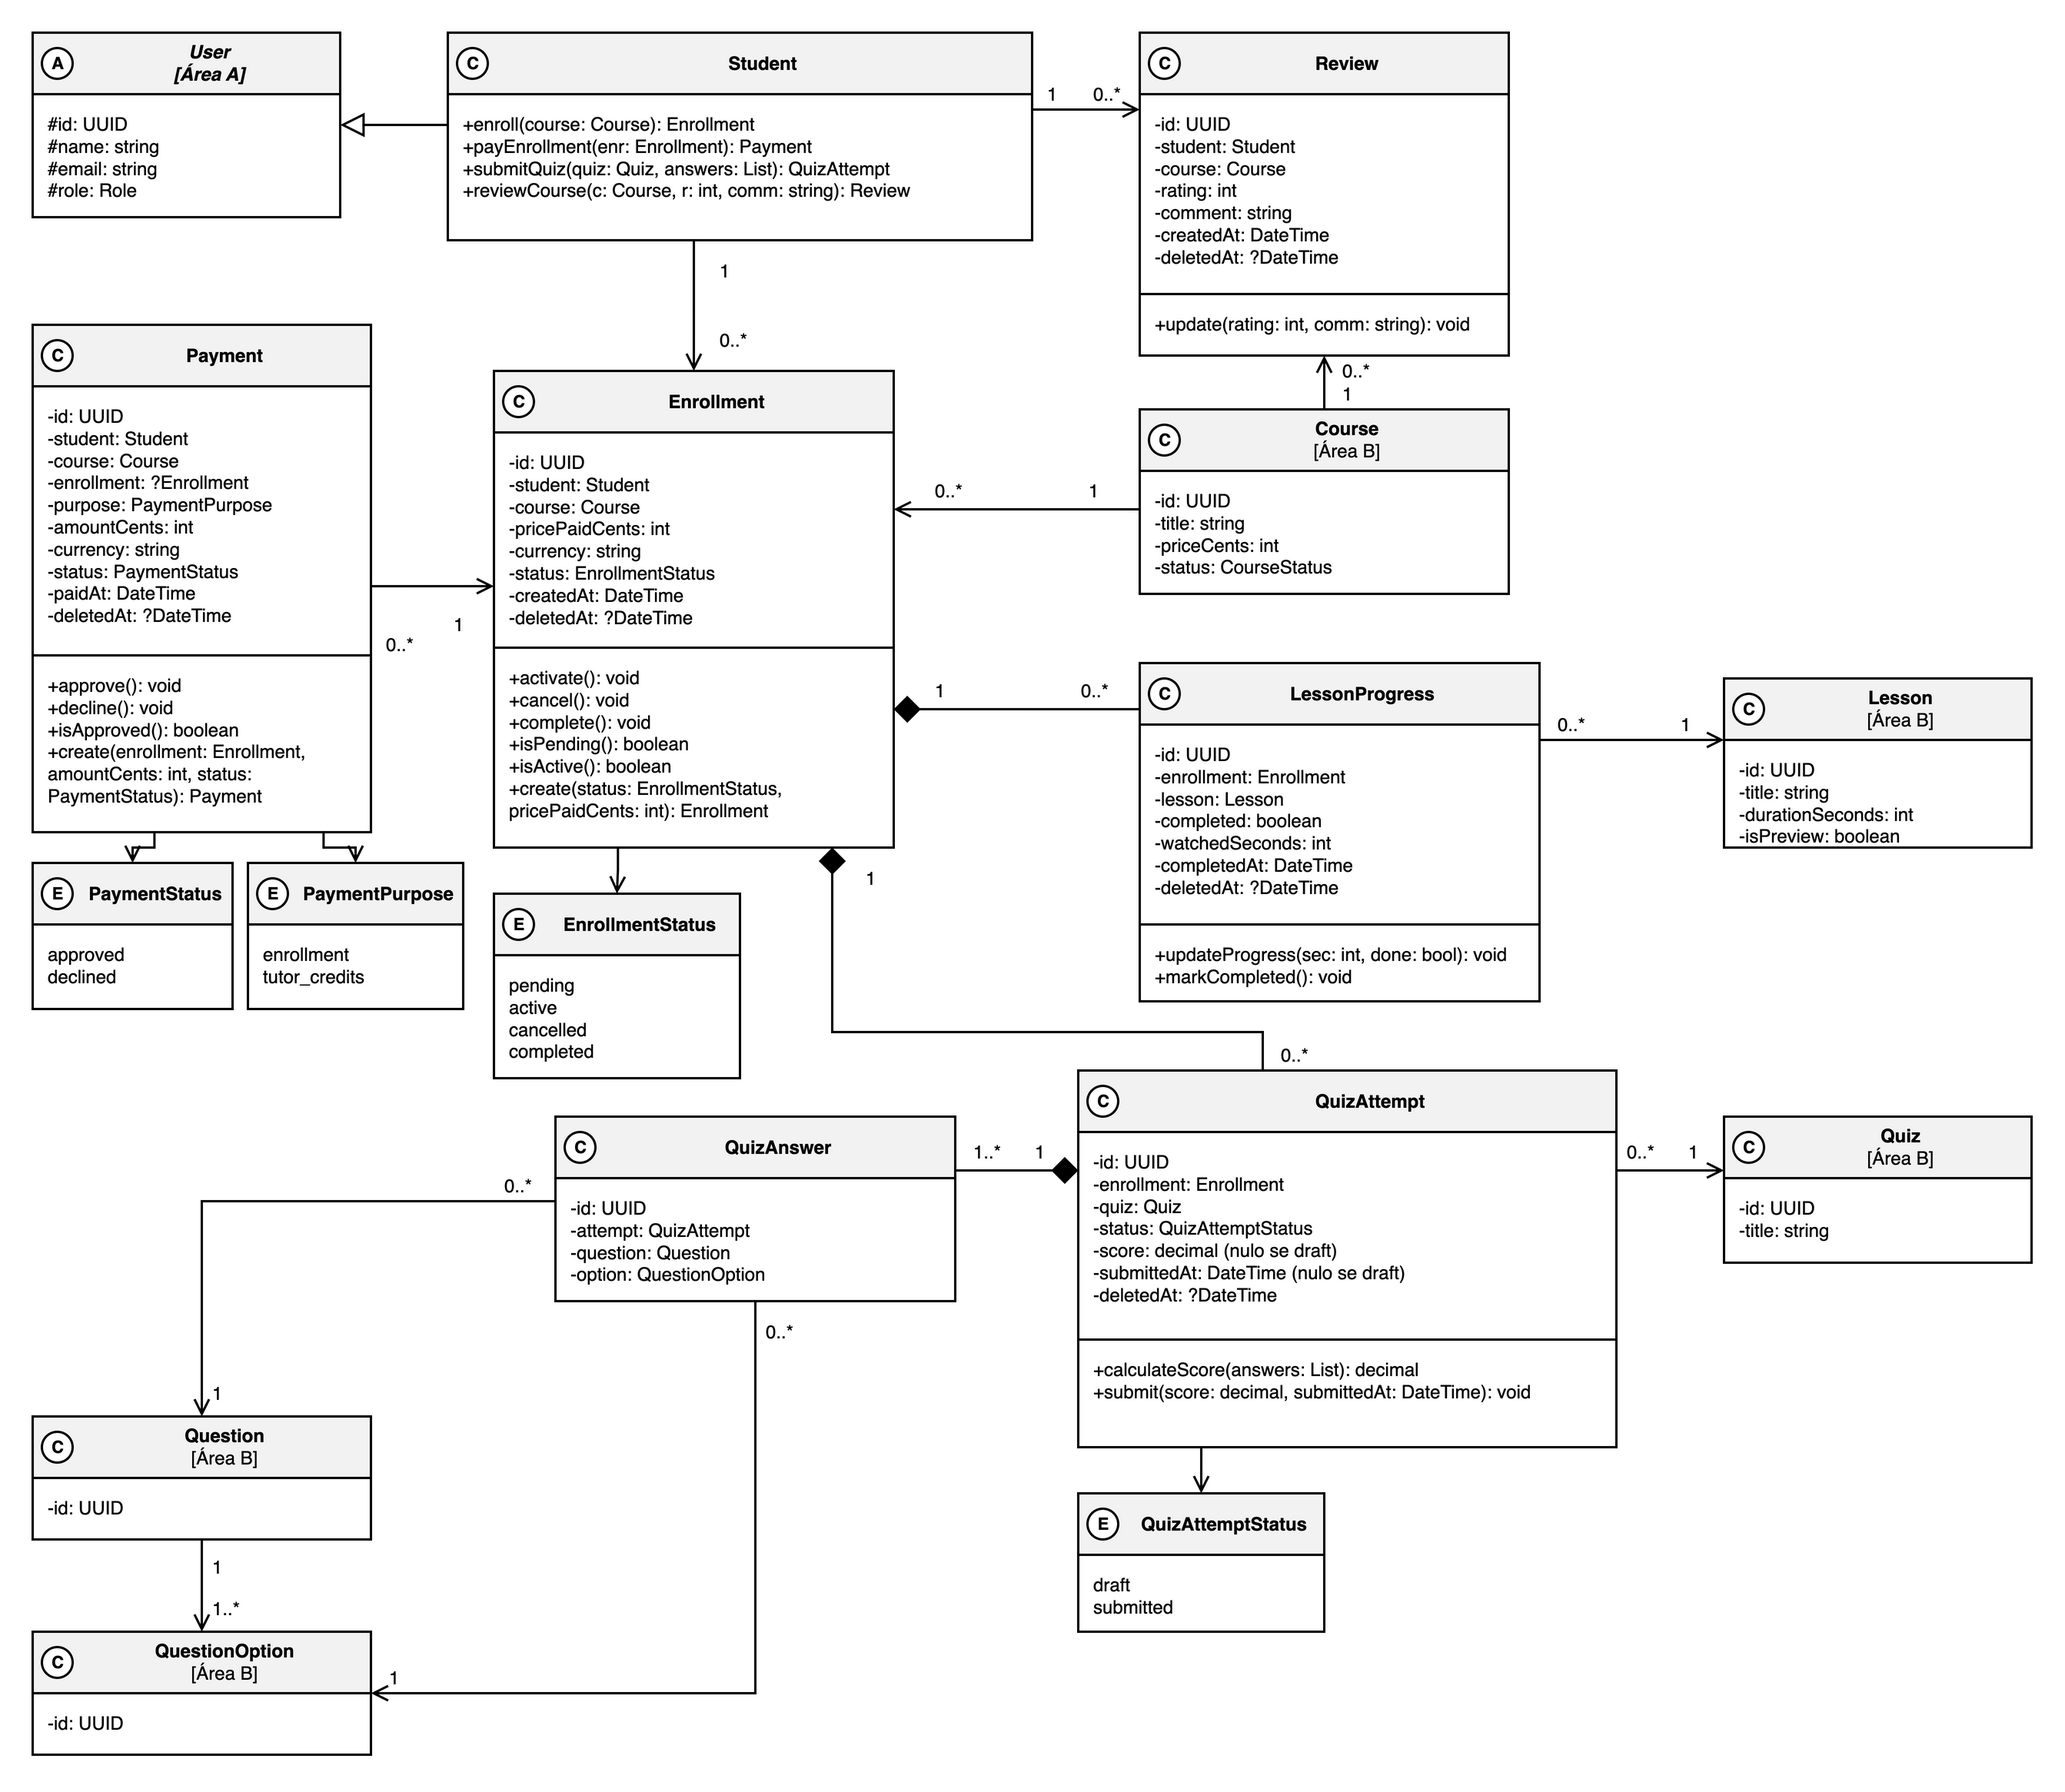
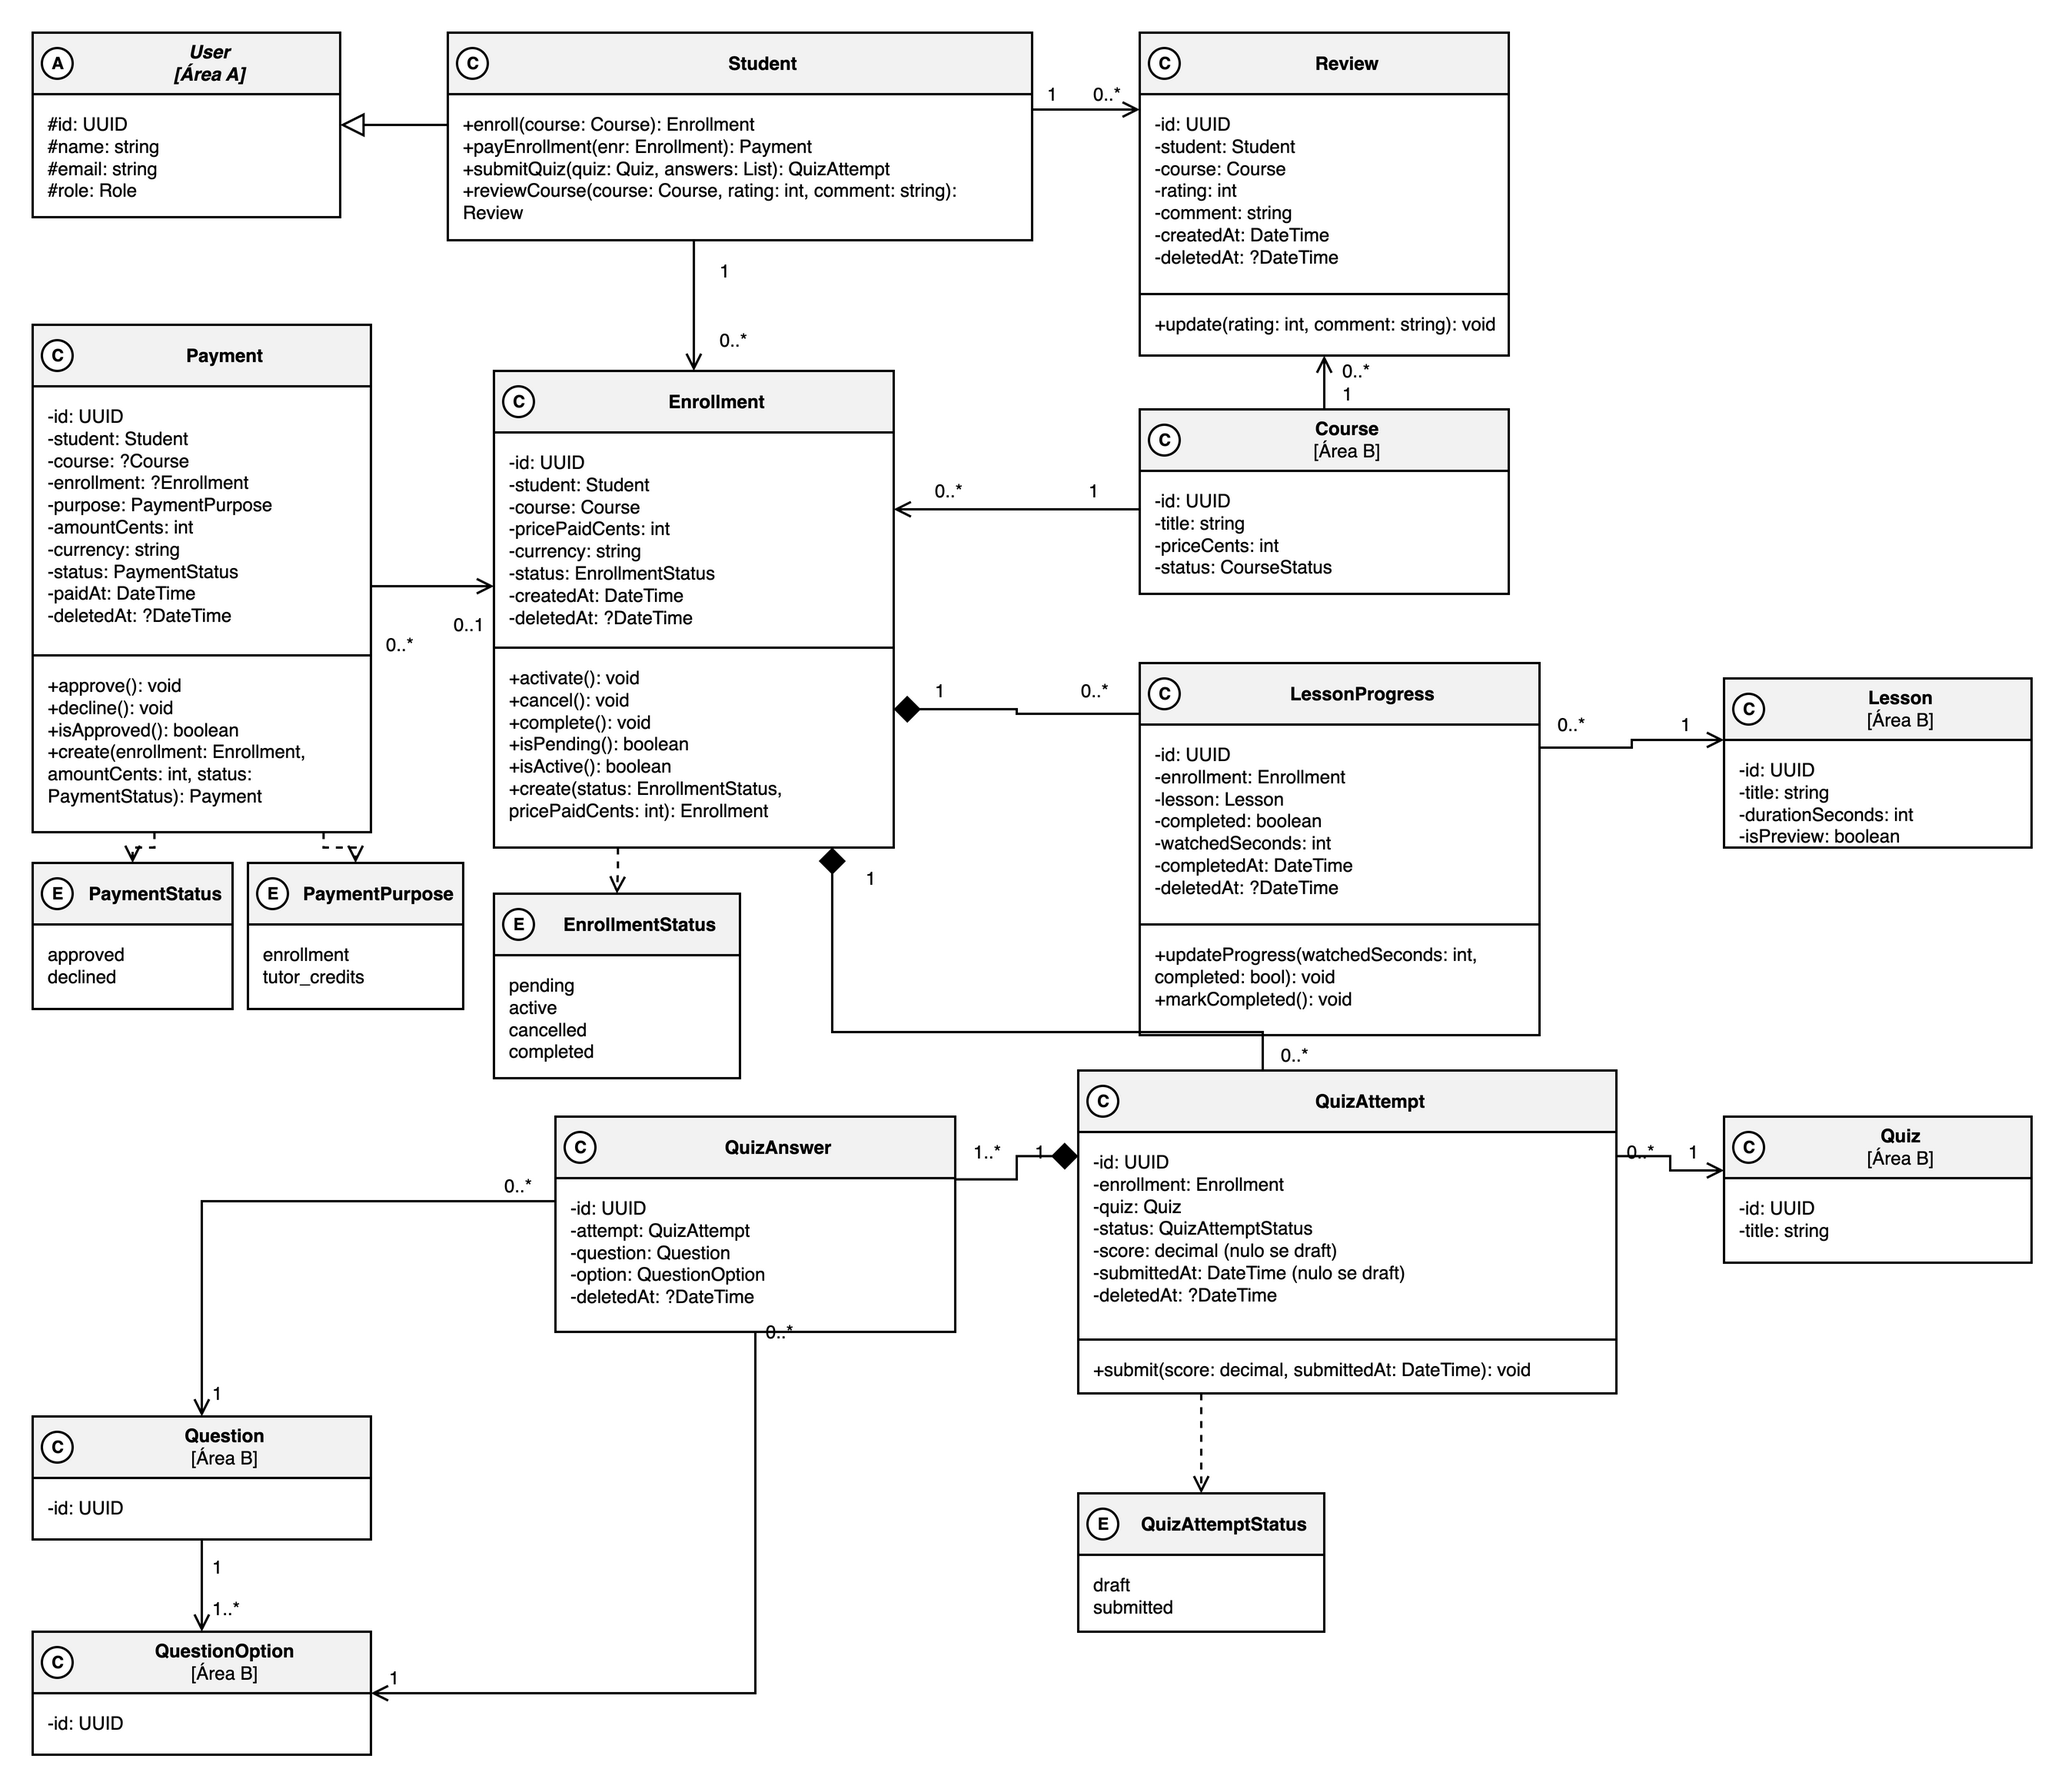
docs(diagrama-de-classes): declare Area B service interface and fix class diagrams
Area B must not read Area C tables (ADR-0018), so the three methods it depends on (hasActiveEnrollments, hasStudentHistoryInModule, hasStudentProgress) are declared in the implementation diagrams and in the text as the public interface of Area C. The ApiException signature in the text now matches the diagram. The negocial diagram moves calculateScore out of QuizAttempt (QuizAttemptService owns it) and types Payment.course and QuizAnswer.deletedAt; the layout fixes remove overflowing method boxes and crossing rails in the learning diagram.

(cherry picked from commit f96f13a7c5f022f3ca11578e64c2560e58b18b6d)

diff --git a/especificacao/13-diagrama-de-classes/area-c.md b/especificacao/13-diagrama-de-classes/area-c.md
@@ -1,12 +1,14 @@
 ## 3. Área C – Aprendizagem do aluno
 
-Classes dos casos de uso UC002, UC003, UC009, UC010, UC019 e UC020 (RF005, RF006, RF008, RF011, RF014 e RF015), estruturadas sob duas perspectivas complementares do mesmo modelo: negocial e de implementação técnica (MVC / arquitetura em camadas). A convenção de código adota rigorosamente `camelCase` para propriedades e métodos (ADR-0015). Erros de validação e regras de negócio utilizam a exceção centralizada parametrizada `ApiException(code: ErrorCode, httpStatus, fields)` e o enum `ErrorCode` (definidos no item 13 da Área A e no TDD seção 3.1), sem classes avulsas de exceção (decisão C5).
+Classes dos casos de uso UC002, UC003, UC009, UC010, UC019 e UC020 (RF005, RF006, RF008, RF011, RF014 e RF015), estruturadas sob duas perspectivas complementares do mesmo modelo: negocial e de implementação técnica (MVC / arquitetura em camadas). A convenção de código adota rigorosamente `camelCase` para propriedades e métodos (ADR-0015). Erros de validação e regras de negócio utilizam a exceção centralizada parametrizada `ApiException(code: ErrorCode, httpStatus: int, fields: array = [])` e o enum `ErrorCode` (definidos no item 13 da Área A e no TDD seção 3.1), sem classes avulsas de exceção (decisão C5).
 
 Na perspectiva negocial, o ator `Student` herda da classe abstrata `User` (Área A). As classes do domínio central modelam diretamente o vínculo do aluno com os cursos: `Enrollment` representa a matrícula em `Course` (Área B) com status tipado em `EnrollmentStatus` (`pending`, `active`, `cancelled`, `completed`); `Payment` representa a transação simulada (decisão #51, ADR-0007) com status `PaymentStatus` (`approved`, `declined`) e finalidade tipada em `PaymentPurpose` (`enrollment` ou `tutor_credits`, decisão D-cota-extra). Uma `Enrollment` tem 0..* `Payment` (tentativas recusadas e aprovadas ficam registradas); no caso de aquisição de pacotes avulsos de mensagens do tutor de IA, a referência a `enrollment` em `Payment` é opcional/anulável. Todas as entidades de domínio possuem o atributo `deletedAt: ?DateTime` para controle de exclusão lógica (ADR-0014). `LessonProgress` é composto por `Enrollment` e referencia a aula (`Lesson`, Área B), registrando segundos assistidos e estado de conclusão de modo desacoplado do quiz (UC009 R-4); `QuizAttempt` e suas respostas `QuizAnswer` registram o histórico de resolução de quizzes (`Quiz`, Área B), com status `QuizAttemptStatus` (`draft`, `submitted`) e pontuação (`score`) calculada na correção, nula enquanto a tentativa está em rascunho (sem expor o gabarito antes do envio, UC002 R-4); cada `QuizAnswer` referencia uma `Question` e uma `QuestionOption` (Área B) por associação tipada; e `Review` formaliza a avaliação com nota (1 a 5) e comentário do aluno sobre o curso, com restrição de unicidade para que reenvios substituam a avaliação anterior (UC010 R-2). Nenhuma classe mantém atributos de chave estrangeira (`*Id`): as referências são associações tipadas e composições, conforme as regras do TE5_1, e apenas o identificador `id` aparece como atributo.
 
 Na perspectiva de implementação técnica, dividida em dois diagramas com layout padronizado da esquerda para a direita (Controller > Service > Repository > Entity, com cabeçalhos coloridos por papel arquitetural e legenda):
 1. **Catálogo, matrícula e pagamento simulado:** `CatalogController`, `EnrollmentController` e `PaymentController` recebem as requisições HTTP validadas pelos respectivos Form Requests (`CatalogFilterRequest`, `PaymentSimulatedRequest`), que as transformam em DTOs tipados (`CatalogFilterDTO`, `PaymentDTO`). O parâmetro de paginação `perPage` é validado estritamente no intervalo de 1 a 100 (padrão 20), retornando HTTP `422 Unprocessable Content` com `ErrorCode.VALIDATION_FAILED` e indicação do campo em `fields.perPage` caso o valor seja inválido (decisão D-TC245). Os controladores delegam o processamento a `CatalogService`, `EnrollmentService` e `PaymentService`. No fluxo de matrícula paga (UC003, UC019 e US018), `EnrollmentController.checkStatus()` informa ao aluno o status atual da matrícula antes de nova tentativa (UC003 E1); `EnrollmentService.enroll()` cria a entidade `Enrollment` com status `pending` (curso pago) ou `active` (curso gratuito); ao confirmar a transação simulada, `PaymentService.processSimulatedPayment()` valida o preço e a disponibilidade do curso, registra a entidade `Payment` e invoca `EnrollmentService.activateEnrollment()`, promovendo a transição de estado da matrícula de `pending` para `active`. `PaymentRepository.findByEnrollmentId()` retorna a coleção de pagamentos da matrícula. As respostas são formatadas via API Resources (`EnrollmentResource`, `PaymentResource`, `CourseCatalogResource` na listagem e `CourseDetailResource` no detalhe do curso, UC020).
 2. **Aulas, quizzes e avaliações:** `LessonPlayerController`, `QuizAttemptController` e `ReviewController` processam requisições validadas por `ProgressUpdateRequest`, `QuizDraftRequest`, `QuizSubmitRequest` e `ReviewRequest`, repassando DTOs em camelCase (`watchedSeconds`, `completed`, etc.) a `LessonProgressService`, `QuizAttemptService` e `ReviewService`. O retorno de `updateProgress` é `ProgressResource`. `LessonProgressService` interage com `MediaService` para emitir URLs assinadas temporárias de 15 minutos no Cloudflare R2 (RNF002) para reprodução protegida das videoaulas. `QuizAttemptService` efetua a correção automática imediata das questões contra o gabarito cadastrado na autoria e persiste a tentativa via `QuizAttemptRepository`. `LessonProgressService.checkEnrollmentOrPreview()` decide o acesso à aula (matrícula ativa ou aula de prévia, retornando HTTP `403 Forbidden` quando o acesso não for autorizado, UC009 E1 e decisão C3). `ReviewRepository.averageRatingByCourse()` recalcula a média de notas após cada avaliação (UC010). `ReviewService` valida a pré-condição de ao menos uma aula concluída antes de registrar ou substituir a avaliação em `ReviewRepository`.
+
+**Interface pública da Área C para a Área B.** Três métodos de serviço são o ponto de acesso das outras áreas aos dados de matrícula e progresso, em vez de consulta direta às tabelas da Área C (ADR-0018): `EnrollmentService.hasActiveEnrollments(courseId: UUID): bool` (UC006, bloqueio de exclusão de curso com matrículas ativas), `LessonProgressService.hasStudentHistoryInModule(moduleId: UUID): bool` (UC014, histórico de progresso e tentativas de quiz no módulo) e `LessonProgressService.hasStudentProgress(lessonId: UUID): bool` (UC015, progresso registrado na aula). Esses métodos são declarados nos diagramas de implementação e não expõem entidades da Área C.
 
 ![Classes negociais da Área C](../diagramas/13-classes-area-c-negocial.png)
 
